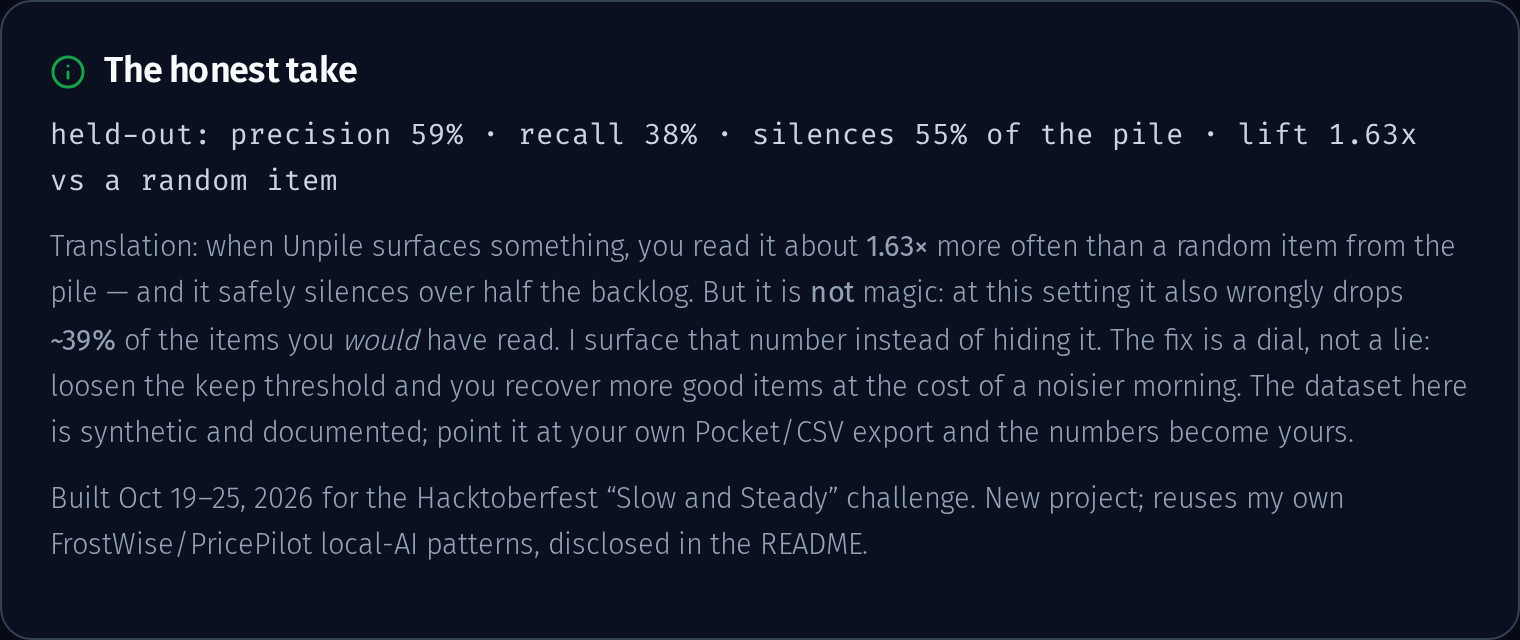
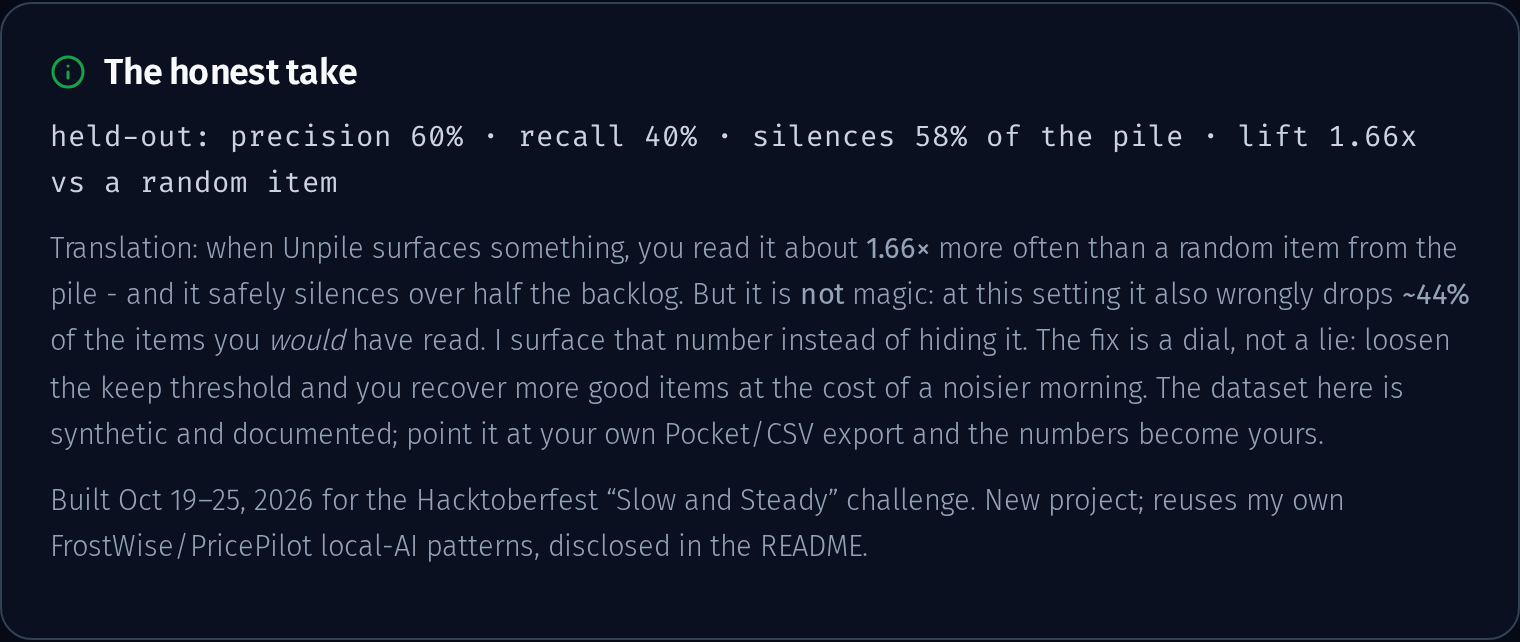
Fix: article numbers match 3-bucket demo (5/1/8, 5.5h), regenerate screenshots, scroll-margin so sticky nav never obscures headers

diff --git a/web/index.html b/web/index.html
@@ -44,6 +44,8 @@
   /* ---- nav ---- */
   nav{position:sticky;top:0;z-index:50;backdrop-filter:blur(12px);
     background:#020617cc;border-bottom:1px solid var(--border)}
+  /* keep anchored / scrolled-to content clear of the 60px sticky nav */
+  .col-head,.app,section[id]{scroll-margin-top:76px}
   nav .wrap{display:flex;align-items:center;justify-content:space-between;height:60px}
   .brand{display:flex;align-items:center;gap:10px;font-weight:600;font-size:18px}
   .brand .dot{width:26px;height:26px;border-radius:8px;background:linear-gradient(135deg,#16A34A,#0ea5e9);

diff --git a/docs/devto-article.md b/docs/devto-article.md
@@ -12,7 +12,7 @@ I am never going to read a thousand articles. I know this. You know this. "Read 
 
 So for the "Slow and Steady" challenge, the one that asks you to build something that rewards laziness, I built the laziest possible thing: an agent that goes through the whole pile for me, overnight, on my own laptop, and in the morning hands me the five or six things I will actually read. It silences the rest. No cloud. No account. No cost.
 
-It is called **Unpile**, and on my demo pile it kept 5 items out of 14, silenced 9, and gave me back 5.6 hours of reading time I was never going to spend.
+It is called **Unpile**, and on my demo pile it kept 5 items out of 14, set 1 aside as a maybe, silenced the other 8, and gave me back 5.5 hours of reading time I was never going to spend.
 
 ## What I Built
 
@@ -33,13 +33,13 @@ Who gets to be lazier? Anyone with a doom-pile. Which is all of us.
 
 Live, in your browser (no setup, real baked model output): **https://simplynadaf.github.io/unpile**
 
-Here is the demo pile getting triaged. On the left, the five items worth my morning, each with the reasons it survived and a one-line digest from Gemma. On the right, the nine that got silenced: the two-hour video essay I saved at 11pm, the "someday build a cabin" photo essay, the tabs-versus-spaces flamewar.
+Here is the demo pile getting triaged. On the left, the five items worth my morning, each with the reasons it survived and a one-line digest from Gemma. In the middle, the one borderline "maybe" it set aside for a quick skim. On the right, the eight it silenced: the two-hour video essay I saved at 11pm, the "someday build a cabin" photo essay, the tabs-versus-spaces flamewar.
 
-![Unpile triaging a read-later pile: 5 kept, 9 silenced, 5.6 hours reclaimed](docs/screenshots/hero.png)
+![Unpile triaging a read-later pile: 5 kept, 1 maybe, 8 silenced, 5.5 hours reclaimed](docs/screenshots/hero.png)
 
-The kept list and the silenced list, side by side:
+The keep, maybe, and silenced columns, side by side, each with probabilities and reasons:
 
-![The keep and drop columns with probabilities and reasons](docs/screenshots/result.png)
+![The keep, skim, and drop columns with probabilities and reasons](docs/screenshots/result.png)
 
 The whole thing runs on a plain CPU. The numbers on the page are the real TabPFN-v2 and Gemma output, frozen into the static site so the demo cannot break in front of you; toggle any item and an in-browser mirror of the model re-decides live.
 
